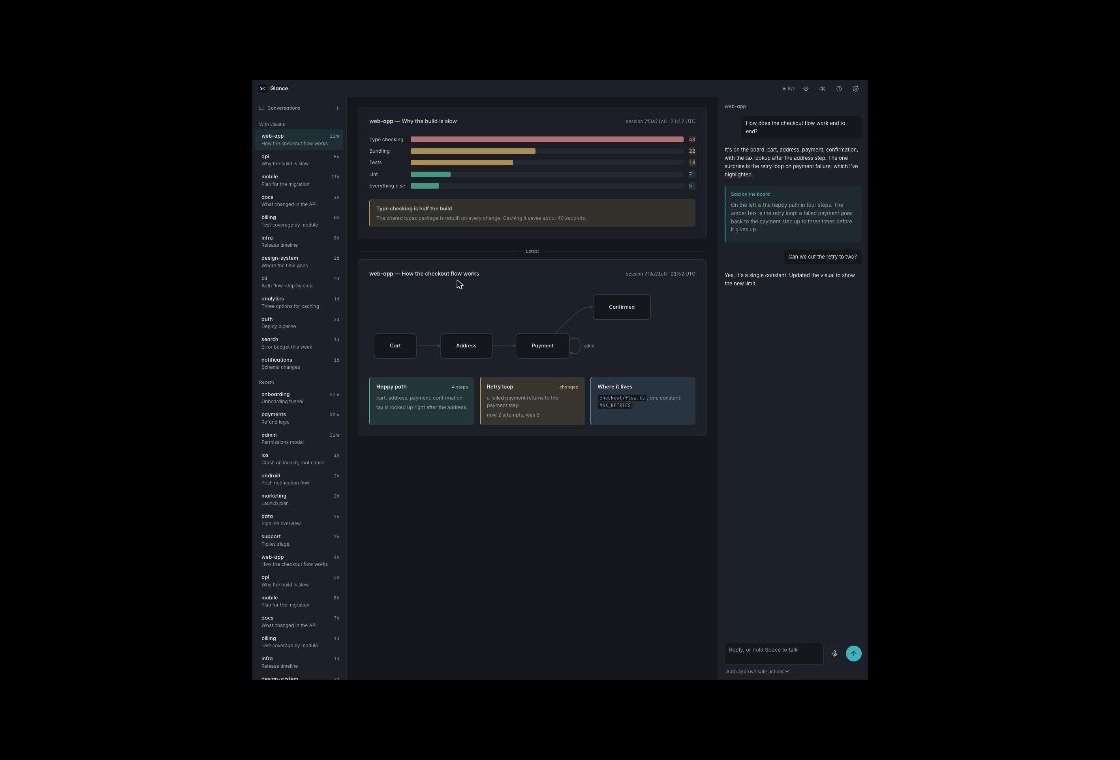
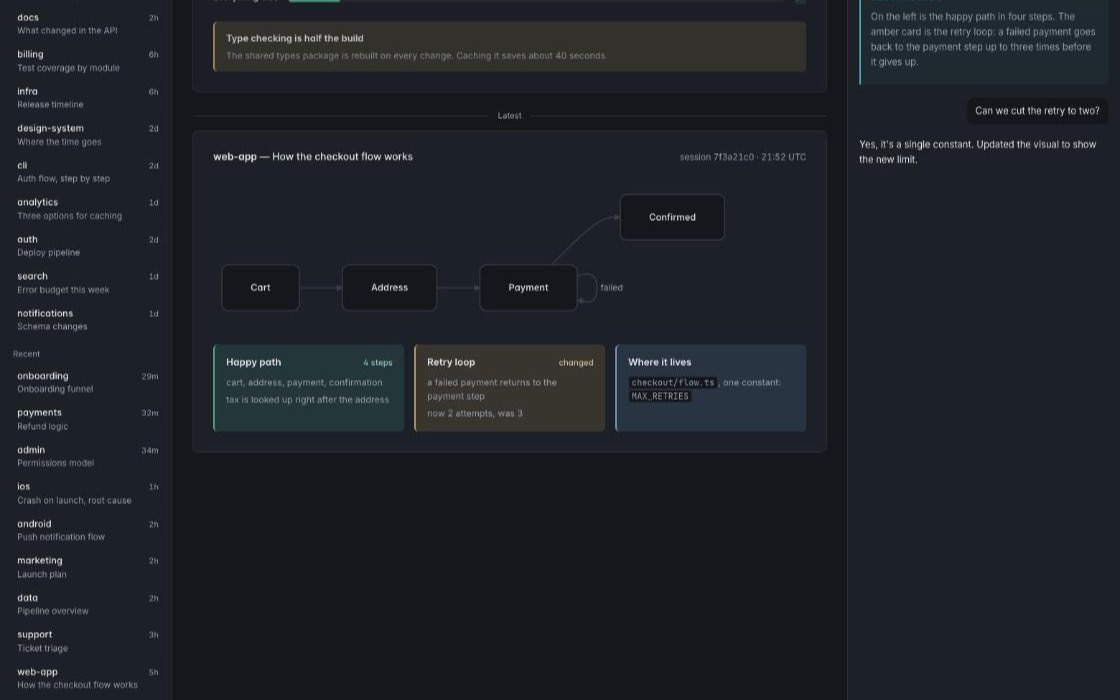
Full-resolution hero screenshot

diff --git a/docs/index.html b/docs/index.html
@@ -77,7 +77,7 @@
       <a class="btn primary" href="#install">Install in two lines</a>
       <a class="btn ghost" href="https://github.com/adeiji/glance">View on GitHub</a>
     </div>
-    <div class="shot"><img src="board.jpg" alt="The Glance page: conversations on the left, visuals in the middle, chat on the right" width="1120" height="760"></div>
+    <div class="shot"><img src="board.jpg" alt="The Glance page: conversations on the left, visuals in the middle, chat on the right" width="1120" height="700"></div>
     <div class="caption">Conversations on the left, the board in the middle, chat on the right. Hold Space to talk.</div>
   </div>
 
